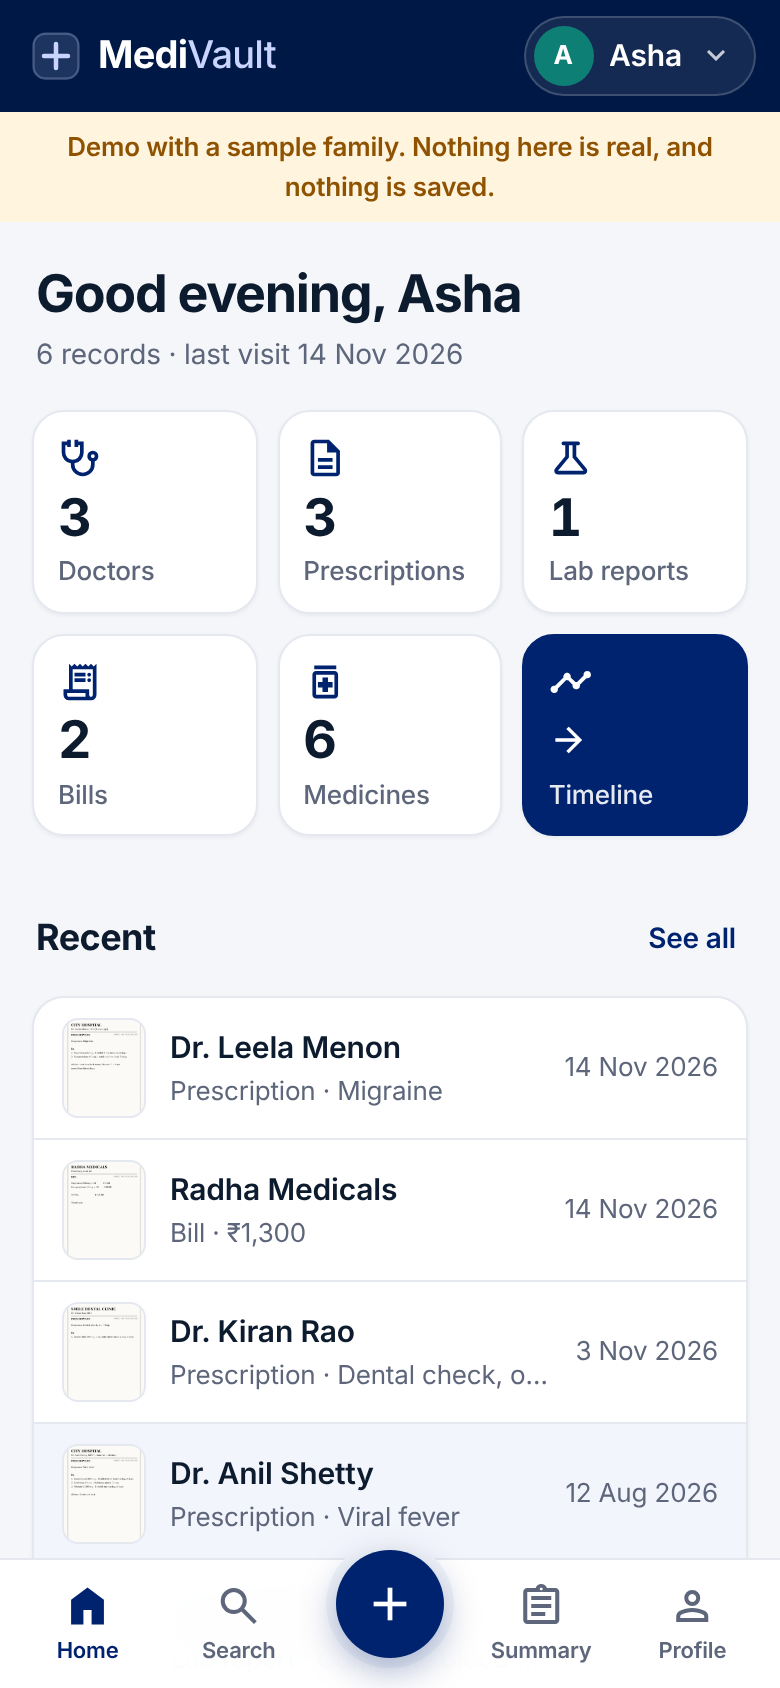
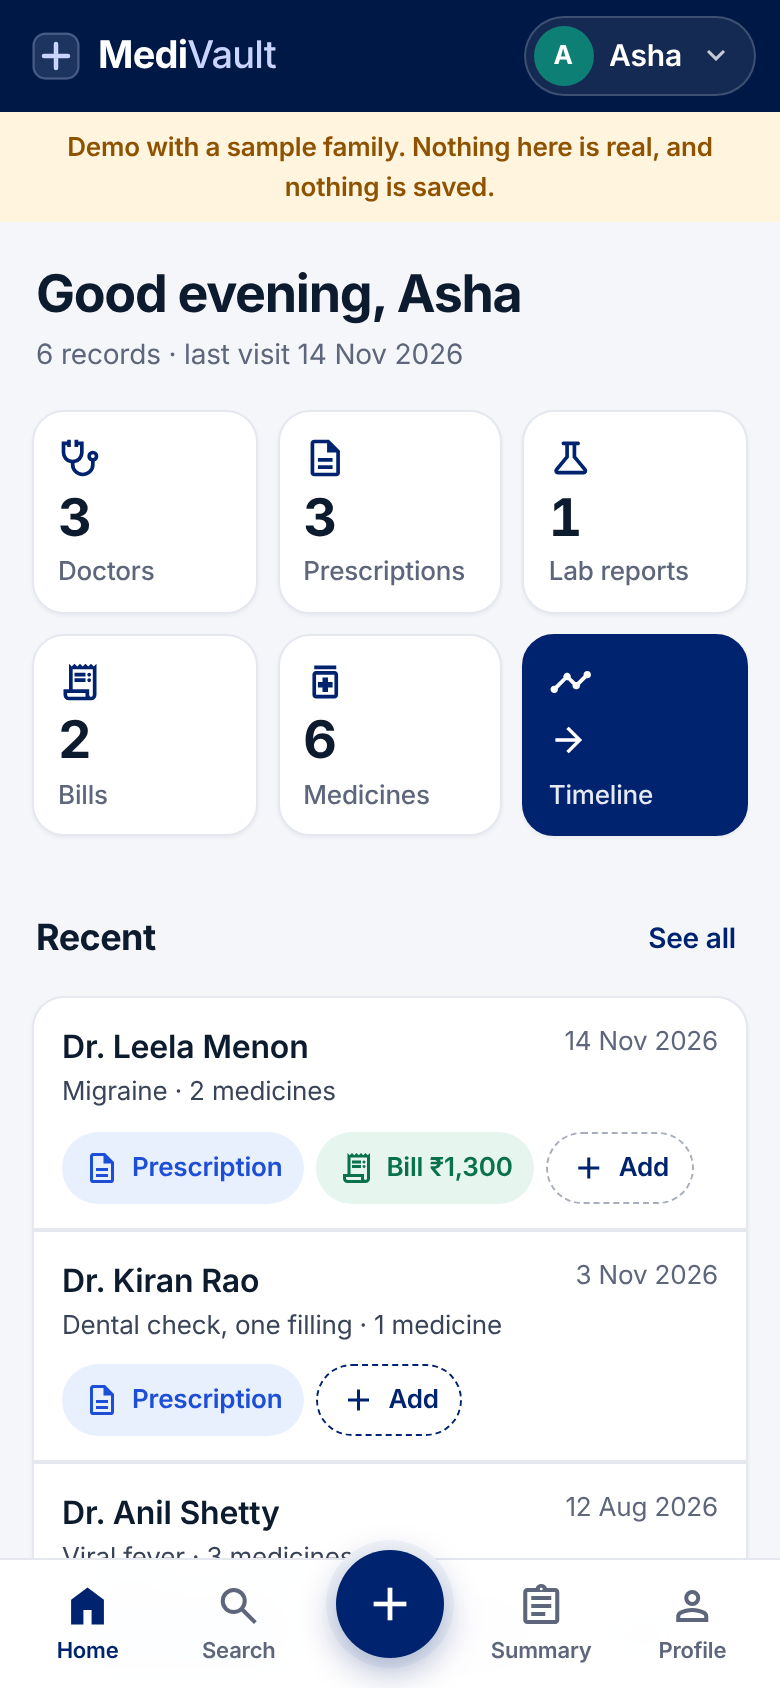
Show visits on Home, say what a new document was filed as
- Recent on Home is one card per visit: the doctor, the day, what it was for,
  and a chip for each document from it. A prescription and the pharmacy bill
  for it used to be two unrelated rows. 'Add' on the card opens the add sheet
  with that visit already picked. Documents that name no doctor, or are still
  being read, keep the plain row.
- When a document finishes being read, Home shows 'Read and filed' with the
  type, doctor, date and medicine count, so nobody has to go looking for it.
- Timeline month headings are larger and darker, and the current month is
  marked.
- The doctors list gets a search box once there are more than four.

Chips are announced exactly like the old rows, so every existing test that
opens a record from Home passes unchanged.

Claude-Session: https://claude.ai/code/session_01F8oRHpCiB59muosLwCb7Lu

diff --git a/frontend/src/components/common/VisitCard.test.js b/frontend/src/components/common/VisitCard.test.js
@@ -1,0 +1,84 @@
+/**
+ * Home shows visits, not loose documents: the prescription and the bill for it
+ * sit in one card, and adding to that visit starts from the card.
+ */
+import { render, screen, act, fireEvent, within } from '@testing-library/react';
+import App from '../../App';
+import API from '../../api';
+import { groupByVisit } from '../../utils/format';
+
+jest.mock('../../api', () => ({
+  __esModule: true,
+  setSessionExpiredHandler: jest.fn(),
+  setServerWakingHandler: jest.fn(),
+  setServerAwakeHandler: jest.fn(),
+  default: { get: jest.fn(), post: jest.fn(), put: jest.fn(), delete: jest.fn() },
+}));
+
+const ALICE = { id: 'p-alice', name: 'Alice', relationship: 'Self' };
+const RX = {
+  id: 'r-rx', profile_id: 'p-alice', status: 'done', document_category: 'prescription', document_type: 'Prescription',
+  doctor_name: 'Leela Menon', diagnosis: 'Migraine', document_date: '2026-11-14', created_at: '2026-11-14T10:00:00Z',
+  medicines: [{ id: 'm1', name: 'Naproxen' }, { id: 'm2', name: 'Domperidone' }], files: [],
+};
+const BILL = { ...RX, id: 'r-bill', document_category: 'bill', document_type: 'Bill', bill_title: 'Radha Medicals', bill_amount: 1300, diagnosis: null, medicines: [] };
+const LOOSE = { ...BILL, id: 'r-loose', doctor_name: null, bill_title: 'City Hospital', bill_amount: 27076, document_date: '2026-08-02', created_at: '2026-08-02T10:00:00Z' };
+const READING = { ...RX, id: 'r-new', status: 'processing', doctor_name: null, diagnosis: null, medicines: [], document_date: null, created_at: '2026-11-16T10:00:00Z' };
+
+const serve = (records) => API.get.mockImplementation((url) => {
+  if (url === '/profiles') return Promise.resolve({ data: [ALICE] });
+  if (url === '/profiles/p-alice/records') return Promise.resolve({ data: records() });
+  if (url === '/profiles/p-alice/records/status') return Promise.resolve({ data: records().map(r => ({ id: r.id, status: r.status })) });
+  return Promise.resolve({ data: [] });
+});
+
+beforeEach(() => { localStorage.setItem('token', 'test-token'); jest.clearAllMocks(); });
+afterEach(() => { localStorage.clear(); jest.useRealTimers(); });
+
+test('documents are grouped into visits, and one with no doctor stays on its own', () => {
+  const entries = groupByVisit([LOOSE, BILL, RX, READING]);
+  // Newest first: the one being read today, then the visit, then the old bill.
+  expect(entries.map(e => e.kind)).toEqual(['record', 'visit', 'record']);
+  expect(entries[1].records.map(r => r.id).sort()).toEqual(['r-bill', 'r-rx']);
+  // Still being read: it names no visit yet.
+  expect(entries.filter(e => e.kind === 'record').map(e => e.id).sort()).toEqual(['r-loose', 'r-new']);
+});
+
+test('a prescription and its bill sit in one card on Home', async () => {
+  serve(() => [RX, BILL, LOOSE]);
+  render(<App />);
+  const card = (await screen.findByRole('button', { name: /^visit to dr\. leela menon/i })).closest('li');
+  expect(within(card).getByText(/migraine · 2 medicines/i)).toBeInTheDocument();
+  expect(within(card).getByRole('button', { name: /^prescription, dr\. leela menon/i })).toBeInTheDocument();
+  expect(within(card).getByRole('button', { name: /^bill, radha medicals/i })).toHaveTextContent('Bill ₹1,300');
+  // The loose bill is not pulled into anybody's visit.
+  expect(within(card).queryByText(/27,076/)).toBeNull();
+  expect(screen.getByRole('button', { name: /^bill, city hospital/i })).toBeInTheDocument();
+});
+
+test('Add on a visit card opens the sheet with that visit already picked', async () => {
+  serve(() => [RX]);
+  render(<App />);
+  fireEvent.click(await screen.findByRole('button', { name: /add to the visit with dr\. leela menon/i }));
+  const sheet = await screen.findByRole('dialog', { name: /add to this visit/i });
+  expect(within(sheet).getByRole('button', { name: /leela menon/i })).toHaveAttribute('aria-pressed', 'true');
+});
+
+test('when a document finishes being read, Home says what it was filed as', async () => {
+  jest.useFakeTimers();
+  let done = false;
+  serve(() => [done ? { ...READING, status: 'done', doctor_name: 'Meera Rao', document_date: '2026-11-16', medicines: [{ id: 'x', name: 'A' }] } : READING]);
+  render(<App />);
+  await act(async () => { await Promise.resolve(); await Promise.resolve(); });
+  expect(screen.queryByRole('region', { name: /just added/i })).toBeNull();
+
+  done = true;
+  await act(async () => { jest.advanceTimersByTime(4100); });
+  await act(async () => { await Promise.resolve(); await Promise.resolve(); await Promise.resolve(); });
+
+  const card = screen.getByRole('region', { name: /just added/i });
+  expect(within(card).getByText('Dr. Meera Rao')).toBeInTheDocument();
+  expect(within(card).getByText('1 found')).toBeInTheDocument();
+  fireEvent.click(within(card).getByRole('button', { name: /^ok$/i }));
+  expect(screen.queryByRole('region', { name: /just added/i })).toBeNull();
+});

diff --git a/frontend/src/components/dashboard/Dashboard.jsx b/frontend/src/components/dashboard/Dashboard.jsx
@@ -2,9 +2,10 @@ import { useState, useContext } from 'react';
 import { AppContext } from '../../App';
 import {
   fmt, fmtRel, drN, drInitial, isPending, isFailed, failedOnService, needsReview,
-  uniqueMedicines, getRecordFiles, possibleDuplicates, doctorHospital, thumbUrl } from '../../utils/format';
+  uniqueMedicines, getRecordFiles, possibleDuplicates, doctorHospital, thumbUrl, groupByVisit } from '../../utils/format';
 import Icon from '../common/Icon';
-import Ledger, { typeName } from '../common/Ledger';
+import { LedgerRow, typeName } from '../common/Ledger';
+import VisitCard from '../common/VisitCard';
 import { EmptyState } from '../common/ui';
 import { clickable } from '../../utils/interaction';
 
@@ -149,8 +150,9 @@ function Doctors({ docGroups, docNameMap, sortedDocs, navigate }) {
 export default function Dashboard() {
   const {
     sel, records, loading, loadError, docGroups, docNameMap, sortedDocs, dismissedDupes,
-    navigate, openRecord, refreshRecords, retryRecord, showUpload,
+    navigate, openRecord, refreshRecords, retryRecord, showUpload, justFiled, dismissFiled,
   } = useContext(AppContext);
+  const filed = justFiled ? records.find(r => r.id === justFiled && r.status === 'done') : null;
 
   if (loading) {
     return (
@@ -192,6 +194,22 @@ export default function Dashboard() {
         )}
       </header>
 
+      {filed && (
+        <section className="card filed-card" aria-label="Just added">
+          <div className="filed-head"><Icon name="task_alt" size={20} /> Read and filed</div>
+          <dl className="filed-rows">
+            <div><dt>Type</dt><dd>{typeName(filed)}</dd></div>
+            {filed.doctor_name && <div><dt>Doctor</dt><dd>{drN(filed.doctor_name)}</dd></div>}
+            {filed.document_date && <div><dt>Date</dt><dd>{fmt(filed.document_date)}</dd></div>}
+            {filed.medicines?.length > 0 && <div><dt>Medicines</dt><dd>{filed.medicines.length} found</dd></div>}
+          </dl>
+          <div className="filed-btns">
+            <button className="btn btn-secondary" onClick={dismissFiled}>OK</button>
+            <button className="btn btn-primary" onClick={() => { openRecord(filed); dismissFiled(); }}>Open and check</button>
+          </div>
+        </section>
+      )}
+
       <Attention records={records} openRecord={openRecord} retryRecord={retryRecord} navigate={navigate} dismissedDupes={dismissedDupes} />
 
       {records.length === 0 ? (
@@ -209,7 +227,12 @@ export default function Dashboard() {
               {records.length > 5 && <button className="link-btn" onClick={() => navigate('journey')}>See all</button>}
             </div>
             {/* Failed documents are already listed above, with their actions. */}
-            <Ledger records={records.filter(r => !isFailed(r))} onOpen={openRecord} grouped={false} limit={5} paged={false} />
+            <ul className="rec-group recent-list">
+              {groupByVisit(records.filter(r => !isFailed(r))).slice(0, 5).map(e => (e.kind === 'visit'
+                ? <VisitCard key={e.id} entry={e} onOpen={openRecord} onAdd={(v) => showUpload('auto', v)}
+                    onOpenVisit={(en) => navigate('visit-detail', { visitDate: en.visit.date, doctorKey: en.visit.doctorKey, doctorName: en.visit.doctorName })} />
+                : <LedgerRow key={e.id} r={e.record} onOpen={openRecord} />))}
+            </ul>
           </section>
 
           <Doctors docGroups={docGroups} docNameMap={docNameMap} sortedDocs={sortedDocs} navigate={navigate} />

diff --git a/frontend/src/index.css b/frontend/src/index.css
@@ -277,7 +277,31 @@ input[type=date].field-inp::-webkit-date-and-time-value { text-align: left; }
 /* ── Record rows (everywhere a record is listed) ──────────────────────── */
 .rec-group, .plain-list, .ledger-plain { overflow: hidden; border: 1px solid var(--line); border-radius: var(--r-lg); background: var(--card); box-shadow: var(--shadow); }
 .rec-group > li + li, .plain-list > li + li, .ledger-plain > li + li { border-top: 1px solid var(--line); }
-.month-lbl { margin: 22px 4px 8px; font-size: 14px; font-weight: 600; color: var(--ink-3); }
+.month-lbl { display: flex; align-items: center; gap: 8px; margin: 24px 4px 10px; font-size: 17px; font-weight: 700; color: var(--ink); }
+.month-now { padding: 2px 9px; border-radius: 999px; background: var(--navy-100); color: var(--navy-800); font-size: 12px; font-weight: 600; }
+.recent-list { display: flex; flex-direction: column; }
+.visit-card { padding: 12px 14px; border-bottom: 1px solid var(--line); }
+.visit-card:last-child { border-bottom: 0; }
+.visit-card-head { display: grid; grid-template-columns: 1fr auto; gap: 1px 8px; width: 100%; text-align: left; }
+.visit-card-title { font-size: 16px; font-weight: 600; color: var(--ink); }
+.visit-card-date { font-size: 13px; color: var(--ink-3); align-self: baseline; }
+.visit-card-sub { grid-column: 1 / -1; font-size: 13px; color: var(--ink-2); }
+.visit-card-chips { display: flex; flex-wrap: wrap; gap: 6px; margin-top: 10px; }
+.visit-card-chips .visit-chip { min-height: 36px; padding: 5px 11px; border: 0; font-size: 13px; font-weight: 600; }
+.visit-card-chips .visit-chip.cat-prescription { background: var(--rx-bg); color: var(--rx); }
+.visit-card-chips .visit-chip.cat-lab_report { background: var(--lab-bg); color: var(--lab); }
+.visit-card-chips .visit-chip.cat-bill { background: var(--bill-bg); color: var(--bill); }
+.visit-card-chips .visit-chip.cat-discharge_summary { background: var(--dis-bg); color: var(--dis); }
+.visit-card-chips .visit-chip.cat-other { background: var(--doc-bg); color: var(--doc); }
+.visit-card-chips .visit-chip-add { border: 1.5px dashed var(--ink-4); background: var(--card); color: var(--navy-800); }
+.filed-card { margin-bottom: 14px; padding: 0; overflow: hidden; }
+.filed-head { display: flex; align-items: center; gap: 8px; padding: 10px 14px; background: var(--success-bg); color: var(--success); font-size: 15px; font-weight: 700; }
+.filed-rows > div { display: flex; justify-content: space-between; gap: 12px; padding: 9px 14px; border-top: 1px solid var(--line); font-size: 14px; }
+.filed-rows dt { color: var(--ink-3); }
+.filed-rows dd { font-weight: 600; text-align: right; }
+.filed-btns { display: flex; gap: 10px; padding: 12px 14px; border-top: 1px solid var(--line); }
+.filed-btns .btn { flex: 1; }
+.doctor-search { margin-bottom: 12px; }
 .rec-list > section:first-child .month-lbl { margin-top: 4px; }
 .rec-row { display: flex; align-items: center; gap: 12px; width: 100%; min-height: 68px; padding: 10px 14px; text-align: left; transition: background 0.12s; -webkit-tap-highlight-color: transparent; }
 .rec-row:hover { background: var(--navy-50); }

diff --git a/frontend/src/App.js b/frontend/src/App.js
@@ -103,6 +103,8 @@ function MainApp({ onLogout }) {
   // null when closed, otherwise the type to start the add sheet on.
   const [addOpen, setAddOpen] = useState(null);
   const [addVisit, setAddVisit] = useState(null);
+  const [justFiled, setJustFiled] = useState(null);
+  const dismissFiled = useCallback(() => setJustFiled(null), []);
   // Possible-duplicate groups someone has looked at and kept. Per device: it
   // only hides a hint, and never changes a record.
   const [dismissedDupes, setDismissedDupes] = useState(() => {
@@ -247,6 +249,11 @@ function MainApp({ onLogout }) {
         // you were just looking at does not refetch before it can paint.
         cachedRecordsRef.current.set(pid, sorted);
         if (activeProfileRef.current !== pid) return [];
+        // A document that was being read a moment ago and is now done: say what
+        // it was filed as, so nobody has to go looking for it.
+        const was = new Map(recordsRef.current.map(x => [x.id, x.status]));
+        const finished = sorted.find(x => x.status === 'done' && ['processing', 'extracting'].includes(was.get(x.id)));
+        if (finished) setJustFiled(finished.id);
         setRecords(sorted);
         setLoadError(false);
         setWaking(false);
@@ -544,7 +551,7 @@ function MainApp({ onLogout }) {
     retryRecord,
     setLeaveGuard,
     showToast,
-    showUpload,
+    showUpload, justFiled, dismissFiled,
     dismissedDupes,
     keepDuplicates,
     uploadToVisit,
@@ -555,7 +562,7 @@ function MainApp({ onLogout }) {
     profiles, sel, handleSelChange, addProfile, updateProfile, removeProfile, deleteAccount,
     records, loading, loadError, waking, refreshRecords, docGroups, docNameMap, sortedDocs,
     nav, navigate, updateNavParams, goBack, openRecord, showRecord, retryRecord, setLeaveGuard,
-    showToast, showUpload, dismissedDupes, keepDuplicates, uploadToVisit, attachDocuments,
+    showToast, showUpload, justFiled, dismissFiled, dismissedDupes, keepDuplicates, uploadToVisit, attachDocuments,
     visitUploading, onLogout,
   ]);
 

diff --git a/frontend/src/components/common/VisitCard.jsx b/frontend/src/components/common/VisitCard.jsx
@@ -1,0 +1,39 @@
+import Icon from './Icon';
+import { rowLabel, typeName } from './Ledger';
+import { catIcon, drN, fmt } from '../../utils/format';
+
+const chipText = (r) => (r.document_category === 'bill'
+  ? 'Bill' + (r.bill_amount != null ? ' ₹' + Number(r.bill_amount).toLocaleString('en-IN') : '')
+  : typeName(r));
+
+/**
+ * One visit: the doctor, the day, what it was for, and a chip for every
+ * document that came from it. A prescription and the pharmacy bill for it used
+ * to be two unrelated rows; here they sit together, and "Add" puts the next
+ * one in the same place.
+ */
+export default function VisitCard({ entry, onOpen, onOpenVisit, onAdd }) {
+  const { visit, records } = entry;
+  const diagnosis = records.find(r => r.diagnosis)?.diagnosis;
+  const meds = records.reduce((n, r) => n + (r.medicines?.length || 0), 0);
+  const sub = [diagnosis, meds ? meds + (meds === 1 ? ' medicine' : ' medicines') : ''].filter(Boolean).join(' · ');
+  return (
+    <li className="visit-card">
+      <button className="visit-card-head" onClick={() => onOpenVisit(entry)} aria-label={'Visit to ' + drN(visit.doctorName) + ', ' + fmt(visit.date)}>
+        <span className="visit-card-title">{drN(visit.doctorName)}</span>
+        <span className="visit-card-date">{fmt(visit.date)}</span>
+        {sub && <span className="visit-card-sub">{sub}</span>}
+      </button>
+      <div className="visit-card-chips">
+        {records.map(r => (
+          <button key={r.id} className={'visit-chip cat-' + (r.document_category || 'prescription')} onClick={() => onOpen(r)} aria-label={rowLabel(r)}>
+            <Icon name={catIcon(r.document_category)} size={18} />{chipText(r)}
+          </button>
+        ))}
+        <button className="visit-chip visit-chip-add" onClick={() => onAdd(visit)} aria-label={'Add to the visit with ' + drN(visit.doctorName)}>
+          <Icon name="add" size={18} />Add
+        </button>
+      </div>
+    </li>
+  );
+}

diff --git a/frontend/src/components/common/Ledger.jsx b/frontend/src/components/common/Ledger.jsx
@@ -31,12 +31,15 @@ function subtitle(r) {
  * icon), who or what it is, what it was for, and when. The same row in the
  * dashboard, the full list, search and review, so a record always looks the same.
  */
+/** How a record is announced, the same wherever it can be opened from. */
+export const rowLabel = (r) => [typeName(r), recordTitle(r), r.document_date ? fmt(r.document_date) : '', needsReview(r) && !isFailed(r) && !isPending(r) ? 'needs review' : '']
+  .filter(Boolean).join(', ');
+
 export function LedgerRow({ r, onOpen, note, owner }) {
   const thumb = getRecordFiles(r)[0];
   const state = isFailed(r) ? 'failed' : isPending(r) ? 'pending' : needsReview(r) ? 'review' : null;
   const date = fmt(getRecordDate(r));
-  const label = [typeName(r), recordTitle(r), r.document_date ? fmt(r.document_date) : '', state === 'review' ? 'needs review' : '']
-    .filter(Boolean).join(', ');
+  const label = rowLabel(r);
   return (
     <li>
       <button className={'rec-row' + (state ? ' is-' + state : '')} onClick={() => onOpen(r)} aria-label={label}>
@@ -85,7 +88,12 @@ export default function Ledger({ records, onOpen, grouped = true, limit = PAGE, 
     <div className="rec-list">
       {groups.map(g => (
         <section key={g.key} aria-label={grouped ? monthLabel(g.key) : undefined}>
-          {grouped && <h3 className="month-lbl">{monthLabel(g.key)}</h3>}
+          {grouped && (
+            <h3 className="month-lbl">
+              {monthLabel(g.key)}
+              {g.key === new Date().toISOString().slice(0, 7) && <span className="month-now">This month</span>}
+            </h3>
+          )}
           <ul className="rec-group">{g.rows.map(r => <LedgerRow key={r.id} r={r} onOpen={onOpen} />)}</ul>
         </section>
       ))}

diff --git a/frontend/src/components/doctors/DoctorsPage.jsx b/frontend/src/components/doctors/DoctorsPage.jsx
@@ -1,4 +1,4 @@
-import { useContext } from 'react';
+import { useContext, useState } from 'react';
 import { AppContext } from '../../App';
 import { drN, drInitial, fmt, fmtRel, getRecordDate, doctorHospital } from '../../utils/format';
 import Icon from '../common/Icon';
@@ -30,6 +30,15 @@ export default function DoctorsPage() {
   };
 
   const named = sortedDocs.filter(k => k !== 'unassigned');
+  const [q, setQ] = useState('');
+  const needle = q.trim().toLowerCase();
+  const matches = (key) => {
+    if (!needle) return true;
+    const visits = docGroups[key] || [];
+    return [docNameMap[key], visits.find(v => v.specialty)?.specialty, doctorHospital(visits)]
+      .filter(Boolean).join(' ').toLowerCase().includes(needle);
+  };
+  const shownDocs = sortedDocs.filter(matches);
 
   return (
     <div>
@@ -41,9 +50,17 @@ export default function DoctorsPage() {
         </EmptyState>
       )}
 
-      {sortedDocs.length > 0 && (
+      {named.length > 4 && (
+        <label className="field doctor-search">
+          <span className="sr-only">Find a doctor</span>
+          <input className="field-inp" type="search" value={q} onChange={e => setQ(e.target.value)} placeholder="Find a doctor, hospital or specialty" />
+        </label>
+      )}
+      {sortedDocs.length > 0 && shownDocs.length === 0 && <p className="muted-line">No doctor matches “{q}”.</p>}
+
+      {shownDocs.length > 0 && (
         <div className="list-card">
-          {sortedDocs.map(key => {
+          {shownDocs.map(key => {
             const visits = docGroups[key] || [];
             const last = visits[0];
             const specialty = visits.find(v => v.specialty)?.specialty || '';

diff --git a/frontend/src/utils/format.js b/frontend/src/utils/format.js
@@ -256,6 +256,31 @@ export const visitOf = r => {
 export const sameVisit = (a, b) => !!a && !!b && a.doctorKey === b.doctorKey && a.date === b.date;
 
 /**
+ * Records as a person thinks of them: one entry per visit (a doctor on a day,
+ * with everything that came from it), and a plain entry for anything that
+ * names no doctor or is still being read. Newest first.
+ */
+export const groupByVisit = (records) => {
+  const entries = [];
+  const byVisit = new Map();
+  [...(records || [])]
+    .sort((a, b) => String(getRecordDate(b) || '').localeCompare(String(getRecordDate(a) || ''))
+      || String(b.created_at).localeCompare(String(a.created_at)))
+    .forEach(r => {
+      const v = r.status === 'done' || !r.status ? visitOf(r) : null;
+      if (!v) { entries.push({ kind: 'record', id: r.id, record: r }); return; }
+      let entry = byVisit.get(v.id);
+      if (!entry) {
+        entry = { kind: 'visit', id: v.id, visit: v, records: [] };
+        byVisit.set(v.id, entry);
+        entries.push(entry);
+      }
+      entry.records.push(r);
+    });
+  return entries;
+};
+
+/**
  * How many days a prescription line runs for: "5 days", "x 2 weeks", "1 month".
  * Null when it does not say, and then nothing is claimed about it.
  */
